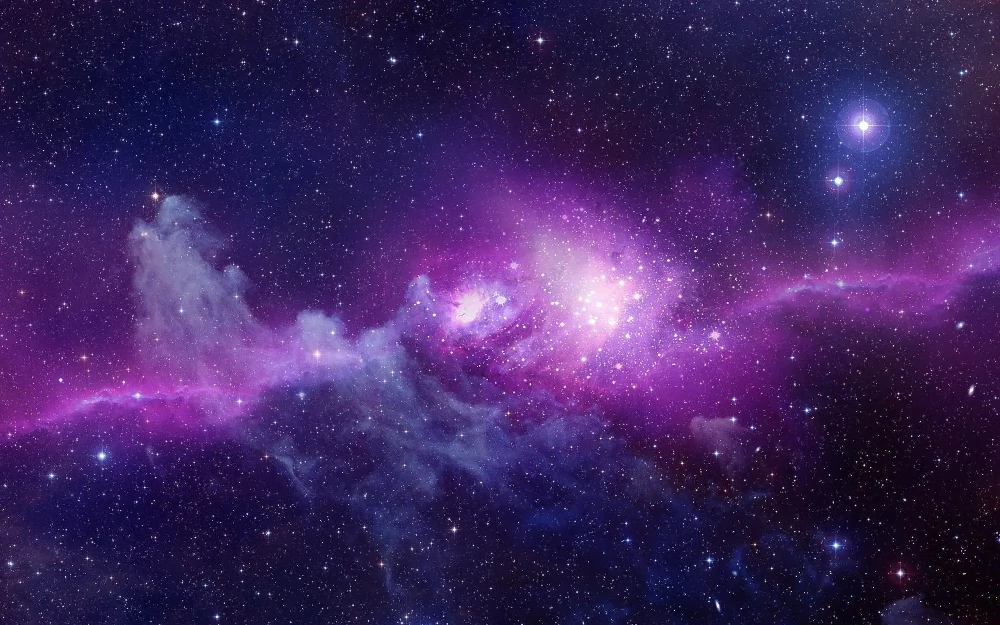
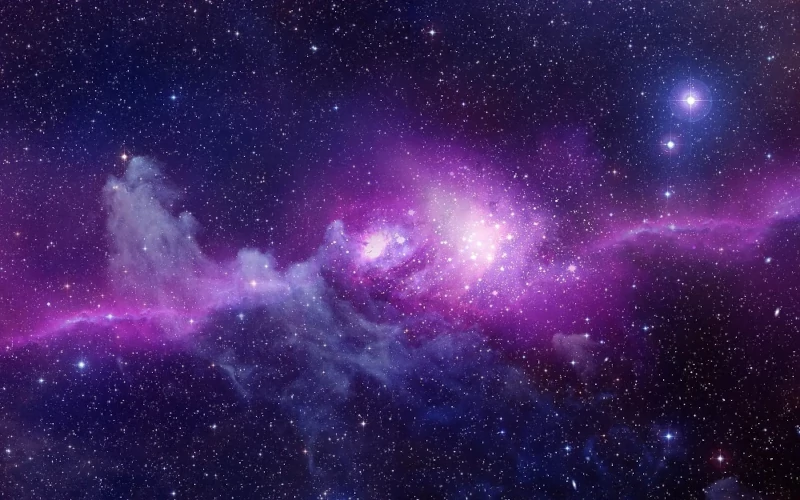
reseize img 110k

diff --git a/public/assets/css/indexHome.css b/public/assets/css/indexHome.css
@@ -4,7 +4,7 @@
   
     color: var(--background-color);
     height: auto;
-    background-image: var(--backgroundImageHome);
+    background-image: var(--background-Image-Home);
     background-size: cover;
     display: flex;
     text-align: center;
@@ -21,5 +21,5 @@
 }
 
 .home p{
-    text-shadow: var(--textShadow);
+    text-shadow: var(--text-Shadow);
 }

diff --git a/public/assets/css/style.css b/public/assets/css/style.css
@@ -8,6 +8,6 @@
     --medium-size: 45px;
     --small-size: 30px;
     --xsmall-size: 20px;
-    --textShadow: 2px 2px rebeccapurple;
-    --backgroundImageHome: url("../images/home/purple_nebula.webp");   
+    --text-Shadow: 2px 2px rebeccapurple;
+    --background-Image-Home: url("../images/home/purple_nebula.webp");   
 }
